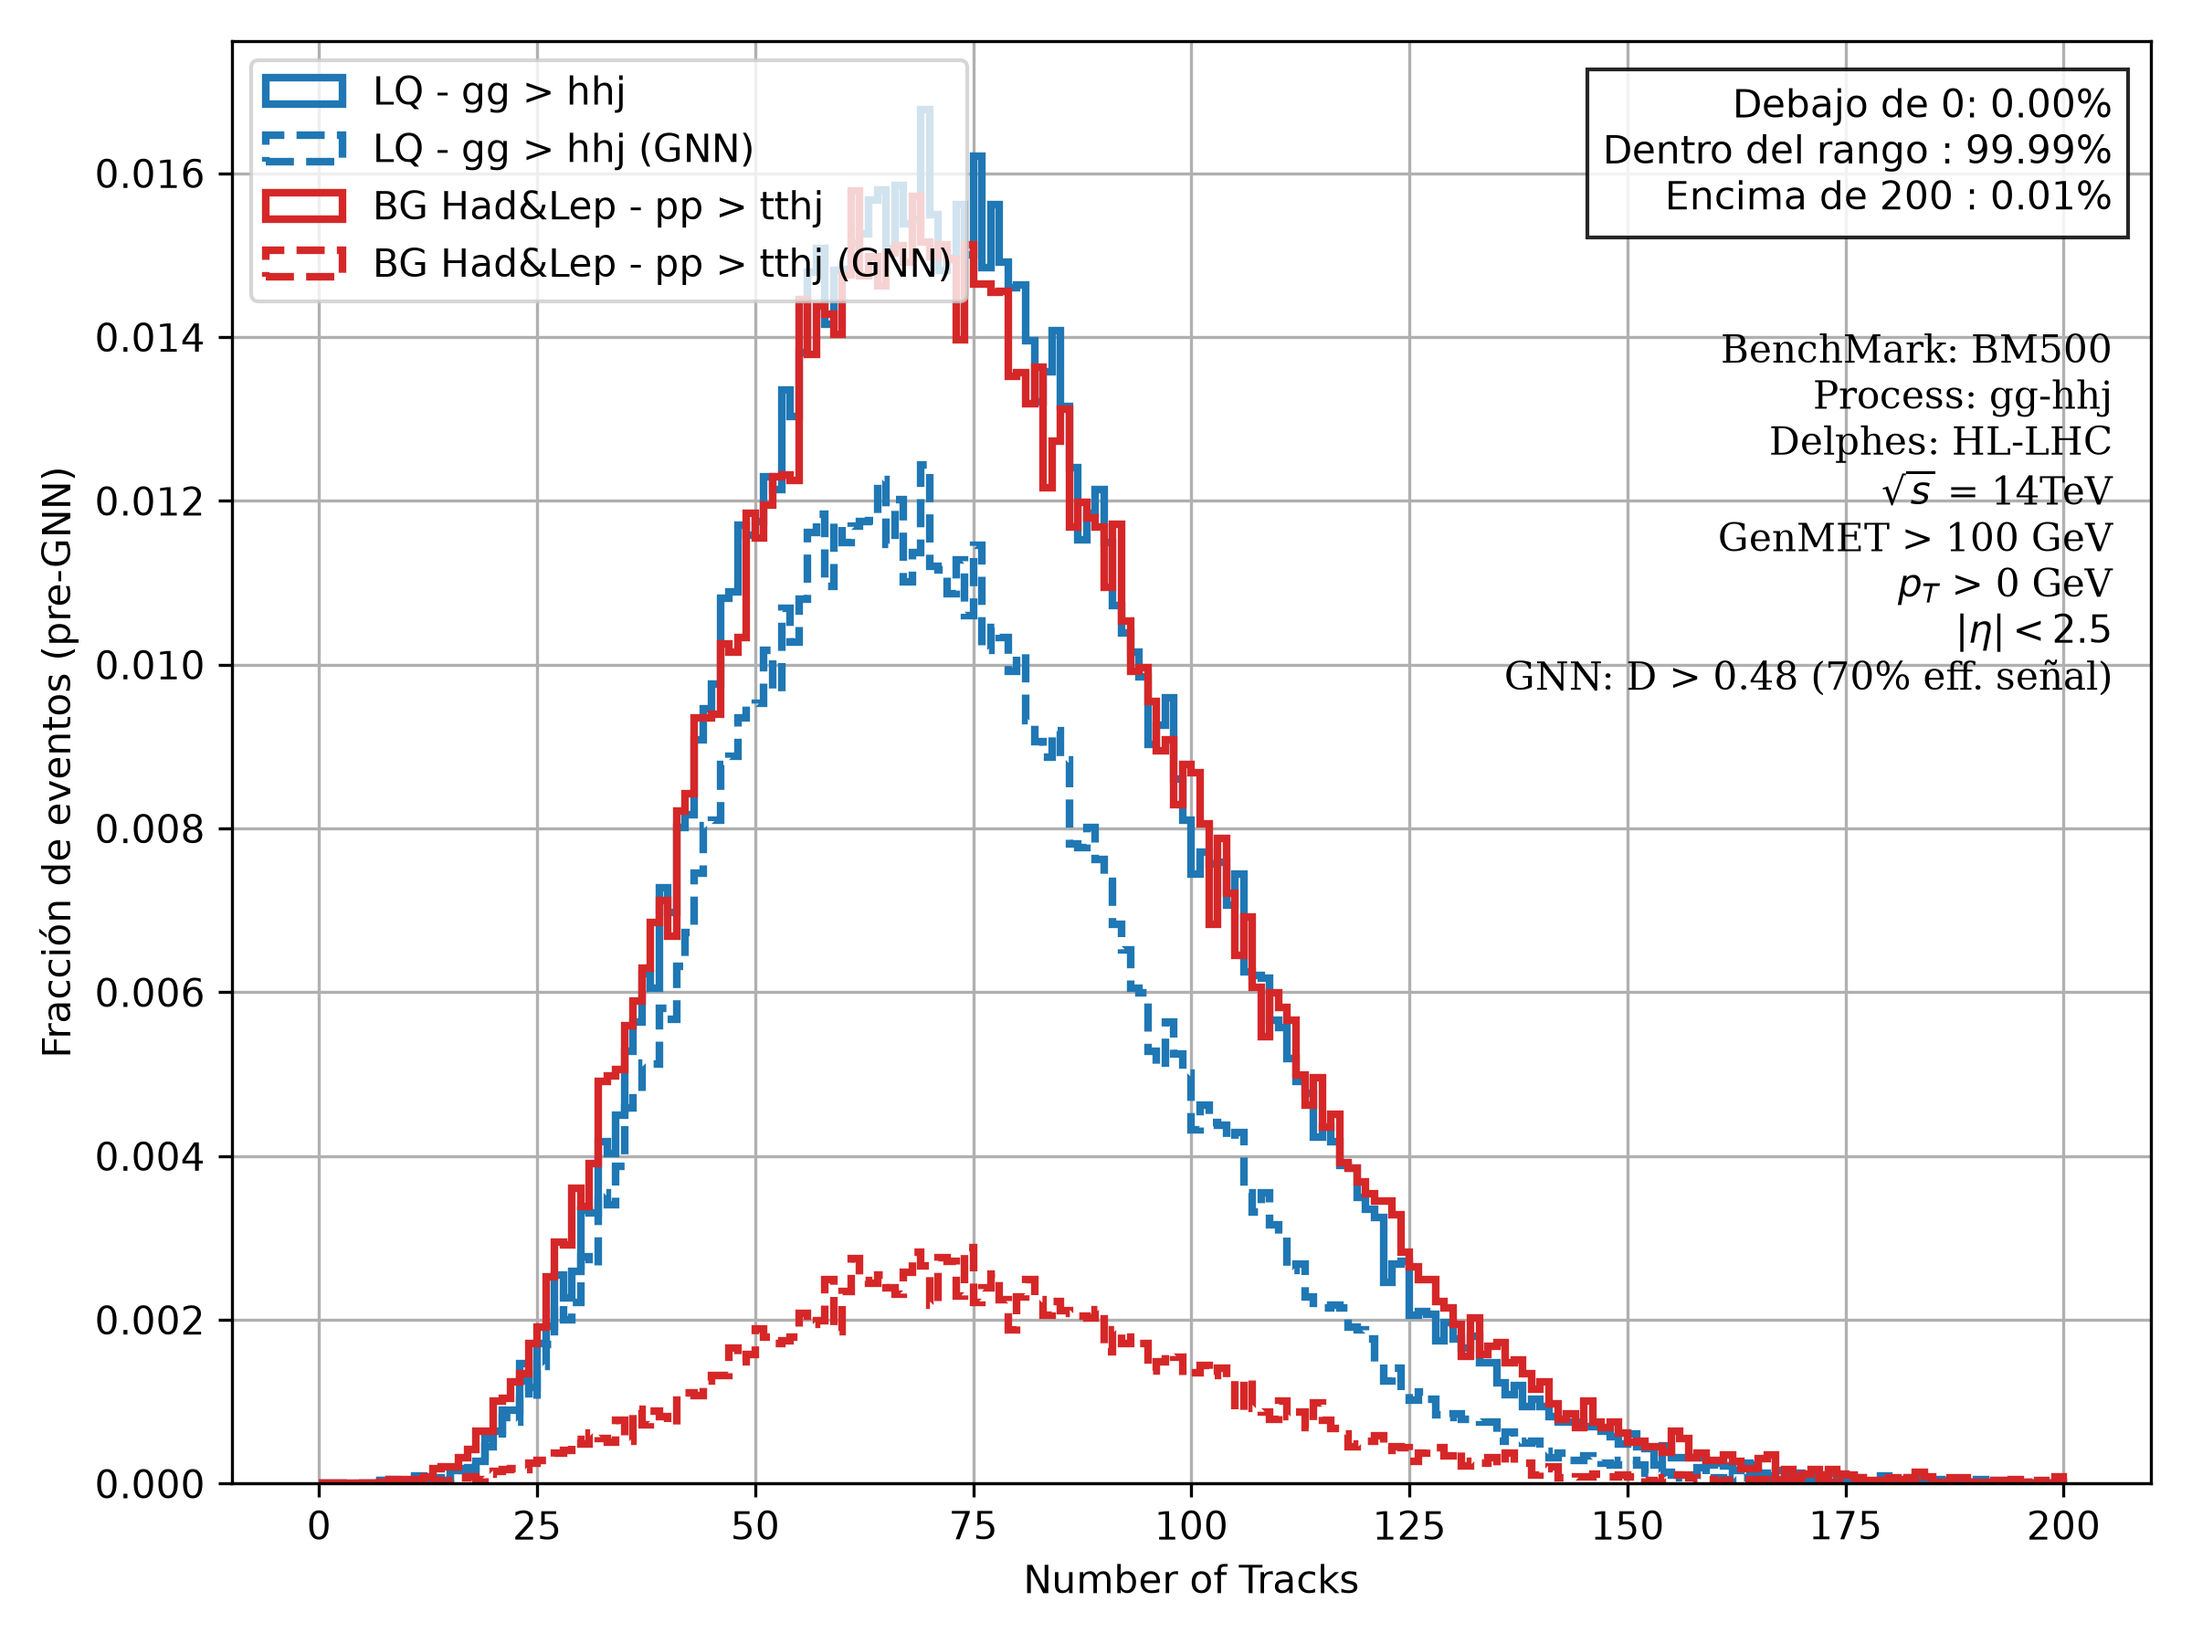
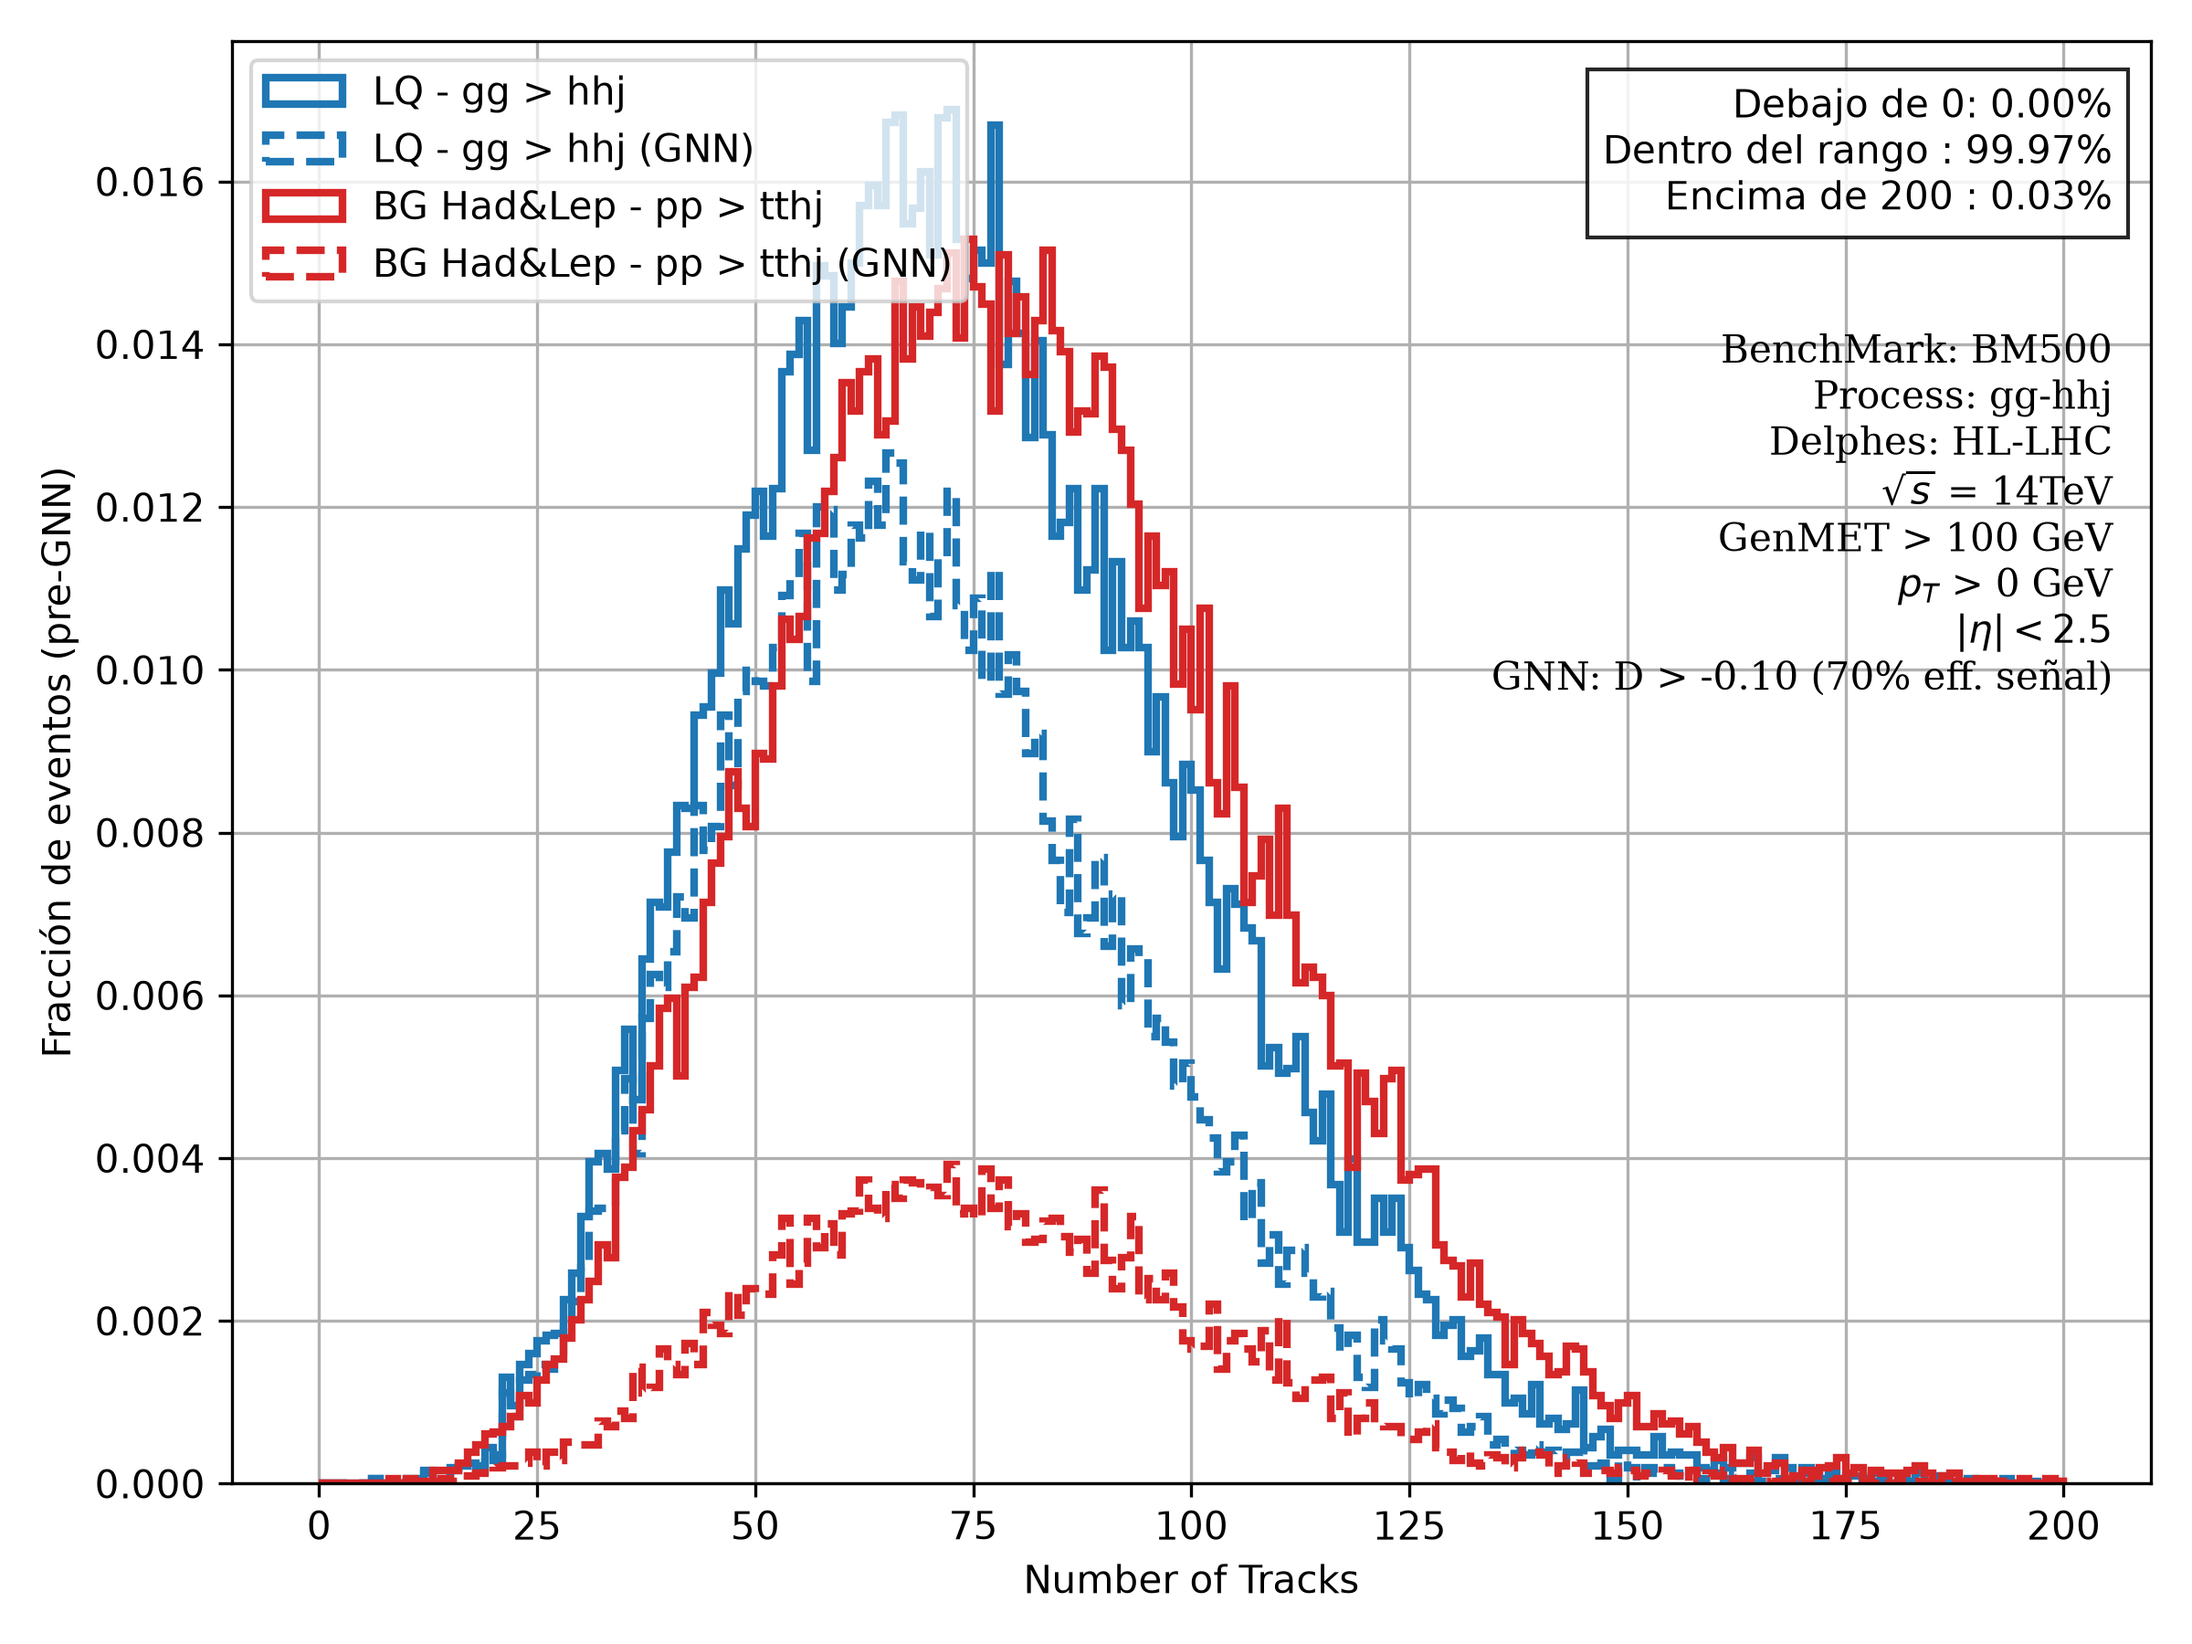
plots training balanceado

diff --git a/RecAnalysis/scripts/H5_analyzer.py b/RecAnalysis/scripts/H5_analyzer.py
@@ -10,7 +10,7 @@ import os
 from pathlib import Path
 from matplotlib.ticker import MultipleLocator, FuncFormatter
 from matplotlib.colors import LogNorm
-import Functions as f
+import Functions_OG as f
 
 vec.register_awkward()
 
@@ -34,8 +34,8 @@ BenchMark = "BM500"
 process = "gg-hhj"
 
 # --- Archivos de test (entrada de salt test) y salidas del clasificador (salida de salt test)
-TEST_DIR = Path("/mnt/R5/gbarco/TrainingV03_HadAndLepBGs/")
-CKPT_DIR = Path("/home/gbarco/DiHiggsProject/OutTrainings/GN2Tracks_KGC_Had/ckpts/")
+TEST_DIR = Path("/mnt/R5/gbarco/TrainingV04-KGC_Balaced/")
+CKPT_DIR = Path("/home/gbarco/DiHiggsProject/OutTrainings/GN2Tracks_KG_HadLep-Balanced_20261126-T181353/ckpts/")
 N_EPOCH = "049"
 
 # --- Corte en el clasificador: D = log(p_tau / p_qcd)
